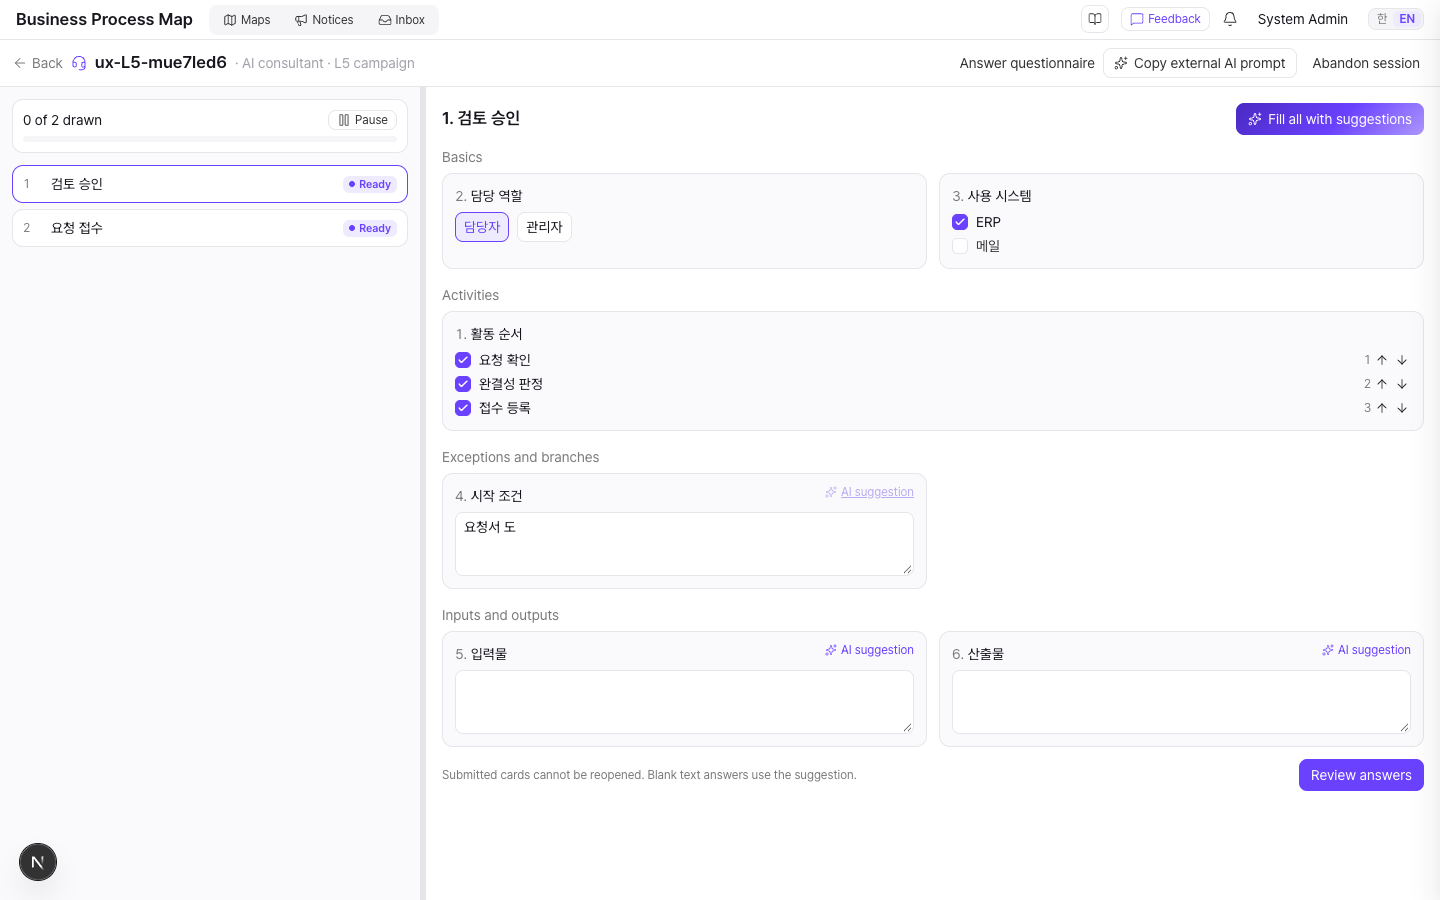
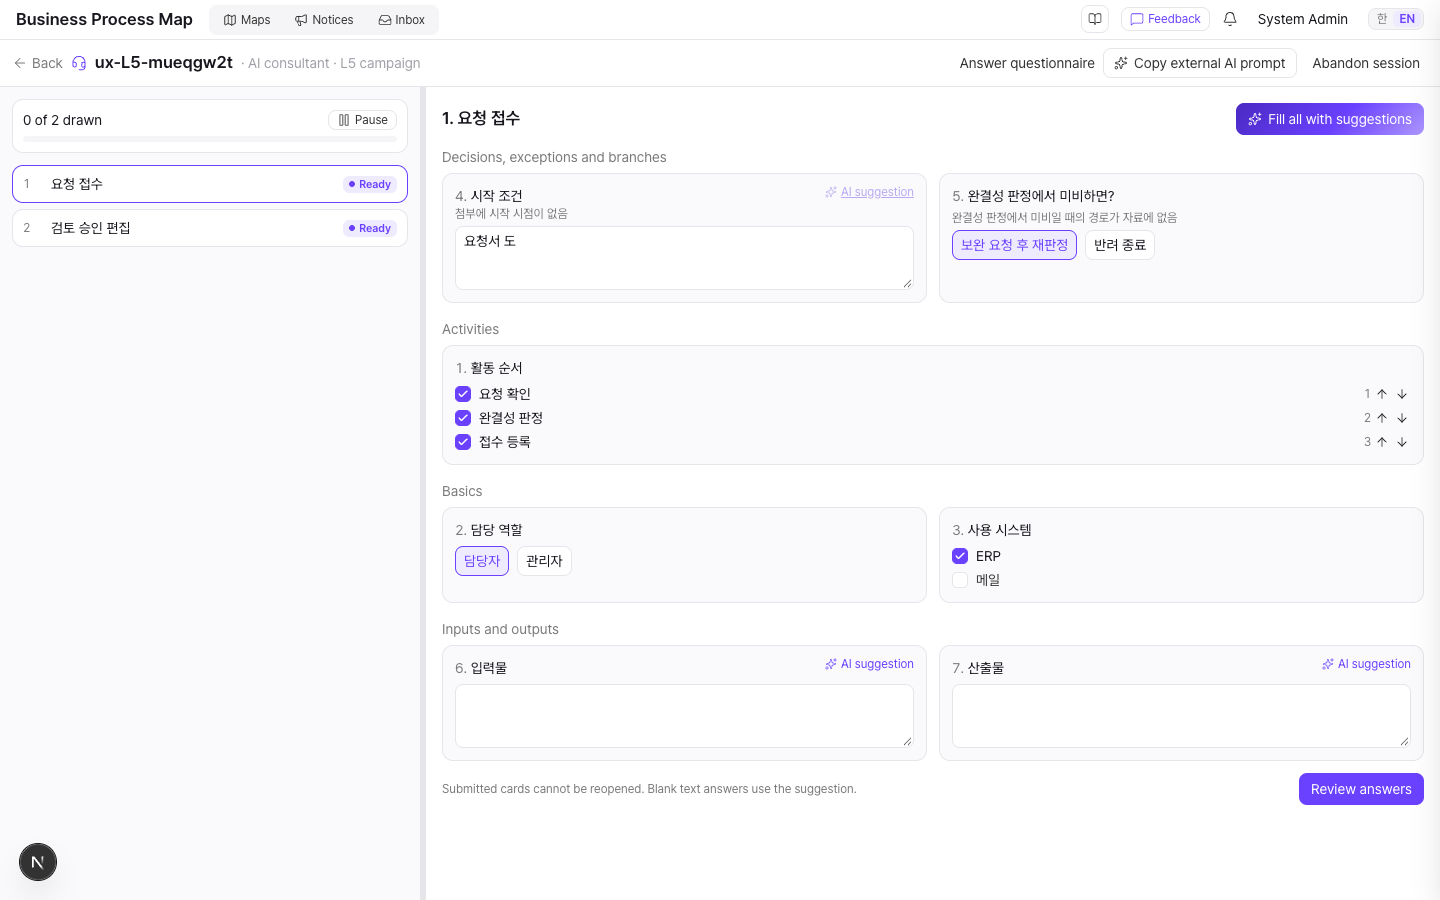
feat(fw-consult): questionnaire targets procedural ambiguity with a per-question why — 설문 초점을 절차 확정으로, 문항 근거 표시
Claude-Session: https://claude.ai/code/session_01Cp6z7UQxkS4JyPnK2oo8Q2

diff --git a/frontend/src/components/framework-interview/questionnaire-form.tsx b/frontend/src/components/framework-interview/questionnaire-form.tsx
@@ -46,12 +46,16 @@ export function QuestionnaireForm({ questionnaire, answers, missing, onChange }:
                     <TextAnswer
                       qid={q.id}
                       title={<><span className="text-ink-tertiary tabular-nums">{numbers.get(q.id)}. </span>{q.text}</>}
+                      why={q.why}
                       value={textValue}
                       suggested={typeof q.suggested === "string" ? q.suggested : ""}
                       onChange={(v) => onChange(q.id, v)}
                     />
                   ) : (
-                    <p className="text-caption text-ink"><span className="text-ink-tertiary tabular-nums">{numbers.get(q.id)}. </span>{q.text}</p>
+                    <>
+                      <p className="text-caption text-ink"><span className="text-ink-tertiary tabular-nums">{numbers.get(q.id)}. </span>{q.text}</p>
+                      {q.why && <QuestionWhy qid={q.id} why={q.why} />}
+                    </>
                   )}
                   {q.kind === "single" && (
                     <div className="flex flex-wrap gap-2">
@@ -107,10 +111,15 @@ export function QuestionnaireForm({ questionnaire, answers, missing, onChange }:
   );
 }
 
+// 질문 근거 한 줄 — AI가 왜 이걸 묻는지(자료에서 빠진 것). 현업이 "왜 이걸 묻지"를 바로 알게 문항 바로 아래 작게.
+function QuestionWhy({ qid, why }: { qid: string; why: string }) {
+  return <p className="text-fine text-ink-tertiary" data-id={`fw-consult-question-why-${qid}`}>{why}</p>;
+}
+
 // 주관식 한 칸 — 제목 줄 우측에 글자형 [AI 제안](편집 중)/연필(확정 후, hover에 노출), 그 아래 전폭 textarea.
 // 빈 textarea에서 시작, [AI 제안]이 제안값을 타이핑으로 채우고, blur로 확정(텍스트 뷰), 연필로 재편집.
 // 빈칸 제출은 여전히 허용(서버가 제안값 적용) — 여기서는 보여주지 않을 뿐이다.
-function TextAnswer({ qid, title, value, suggested, onChange }: { qid: string; title: ReactNode; value: string; suggested: string; onChange: (v: string) => void }) {
+function TextAnswer({ qid, title, why, value, suggested, onChange }: { qid: string; title: ReactNode; why?: string; value: string; suggested: string; onChange: (v: string) => void }) {
   const { t } = useI18n();
   const { typeInto } = useTypewriter();
   const [editing, setEditing] = useState(() => value === "");
@@ -119,7 +128,10 @@ function TextAnswer({ qid, title, value, suggested, onChange }: { qid: string; t
   return (
     <div className="group flex flex-col gap-1.5">
       <div className="flex items-start gap-2">
-        <p className="min-w-0 flex-1 text-caption text-ink">{title}</p>
+        <div className="flex min-w-0 flex-1 flex-col gap-0.5">
+          <p className="text-caption text-ink">{title}</p>
+          {why && <QuestionWhy qid={qid} why={why} />}
+        </div>
         {committed ? (
           <button
             type="button"

diff --git a/frontend/src/lib/framework-interview.test.ts b/frontend/src/lib/framework-interview.test.ts
@@ -38,11 +38,11 @@ describe("framework-interview view model", () => {
     expect(buildSubmitPayload(Q, { q1: ["b"], q2: "r2" })).toEqual({ q1: ["b"], q2: "r2", q3: "" });
   });
 
-  it("groupQuestionsBySection orders basic→activities→exceptions→io and drops empty sections", () => {
+  it("groupQuestionsBySection orders exceptions→activities→basic→io and drops empty sections", () => {
     const q = (id: string, section: FwQuestionSection) => ({ id, kind: "text" as const, maps_to: "conditions" as const, text: id, options: [], suggested: "", section });
     const groups = groupQuestionsBySection([q("a", "io"), q("b", "basic"), q("c", "activities"), q("d", "basic")]);
-    expect(groups.map((g) => g.section)).toEqual(["basic", "activities", "io"]);
-    expect(groups[0].questions.map((x) => x.id)).toEqual(["b", "d"]);
+    expect(groups.map((g) => g.section)).toEqual(["activities", "basic", "io"]);
+    expect(groups[1].questions.map((x) => x.id)).toEqual(["b", "d"]);
   });
 
   it("groupQuestionsBySection drops an unknown or missing section into basic", () => {

diff --git a/frontend/src/lib/i18n-messages.ts b/frontend/src/lib/i18n-messages.ts
@@ -2636,7 +2636,7 @@ const en = {
   "fwConsult.feedbackLocked": "This campaign is registered, so card changes are closed.",
   "fwConsult.sectionBasic": "Basics",
   "fwConsult.sectionActivities": "Activities",
-  "fwConsult.sectionExceptions": "Exceptions and branches",
+  "fwConsult.sectionExceptions": "Decisions, exceptions and branches",
   "fwConsult.sectionIo": "Inputs and outputs",
   "fwConsult.panelPreparing": "Preparing the questionnaire",
   "fwConsult.panelDrawing": "Drawing the map from your answers",
@@ -5456,7 +5456,7 @@ const ko: Record<MessageKey, string> = {
   "fwConsult.feedbackLocked": "등록이 끝난 캠페인이라 카드 수정은 닫혔습니다.",
   "fwConsult.sectionBasic": "기본 정보",
   "fwConsult.sectionActivities": "활동",
-  "fwConsult.sectionExceptions": "예외·분기",
+  "fwConsult.sectionExceptions": "판단·예외·분기",
   "fwConsult.sectionIo": "입출력",
   "fwConsult.panelPreparing": "설문을 만드는 중",
   "fwConsult.panelDrawing": "답을 바탕으로 맵을 그리는 중",

diff --git a/frontend/src/lib/framework-interview.ts b/frontend/src/lib/framework-interview.ts
@@ -8,7 +8,8 @@ import type { MessageKey } from "./i18n-messages";
 export type FwStep = "plan" | "answer" | "waiting" | "relations" | "register" | "done";
 
 // 설문 섹션 표시 순서 — 서버 문항 생성(framework_interview/contracts.py)과 같은 읽는 순서
-const SECTION_ORDER: FwQuestionSection[] = ["basic", "activities", "exceptions", "io"];
+// 판단·예외·분기가 설문의 주 목적이라 맨 위(사용자 결정 2026-09-24), 자료에서 못 읽은 기본 정보·입출력은 뒤로
+const SECTION_ORDER: FwQuestionSection[] = ["exceptions", "activities", "basic", "io"];
 
 /** 섹션 헤더 문구 — 설문 폼과 확인 화면이 같은 라벨을 쓴다. */
 export const SECTION_LABEL_KEYS: Record<FwQuestionSection, MessageKey> = {

diff --git a/frontend/src/lib/api.ts b/frontend/src/lib/api.ts
@@ -2881,6 +2881,7 @@ export interface FwQuestion {
   kind: FwQuestionKind;
   maps_to: FwMapsTo;
   section: FwQuestionSection;
+  why?: string;  // 왜 이 질문이 필요한지(자료에서 빠진 것) 한 줄. 서버 normalize가 빈 문자열로 채운다
   text: string;
   options: FwQuestionOption[];
   suggested: string[] | string;

diff --git a/backend/tests/test_framework_interview_normalize.py b/backend/tests/test_framework_interview_normalize.py
@@ -204,3 +204,13 @@ def test_finalize_row_output_drops_owner_and_fills_department_from_the_card() ->
     row = finalize_row_output(out, {"department": "품질팀"})
     assert "owner" not in row and row["department"] == "품질팀"
     assert finalize_row_output(out, {})["department"] == ""
+
+
+def test_normalize_questionnaire_keeps_why_and_accepts_synonyms() -> None:
+    out = normalize_questionnaire({"questions": [
+        {"id": "q1", "kind": "ordered", "maps_to": "activities", "text": "순서", "options": [{"id": "a", "label": "A"}, {"id": "b", "label": "B"}], "suggested": ["a", "b"], "why": "첨부 SOP에 순서가 없음"},
+        {"id": "q2", "kind": "single", "maps_to": "branches", "text": "반려 시", "options": [{"id": "r", "label": "재접수"}, {"id": "s", "label": "종료"}], "suggested": ["r"], "reason": "반려 경로 미기재"},
+        {"id": "q3", "kind": "text", "maps_to": "io", "text": "입력", "options": [], "suggested": "x"},
+    ]})
+    whys = {q["id"]: q["why"] for q in out["questions"]}
+    assert whys == {"q1": "첨부 SOP에 순서가 없음", "q2": "반려 경로 미기재", "q3": ""}

diff --git a/backend/app/framework_interview/normalize.py b/backend/app/framework_interview/normalize.py
@@ -163,7 +163,8 @@ def normalize_questionnaire(raw: Any) -> dict:
         qid = _unique_id(_text(item.get("id")) or f"q{idx}", seen_q)
         section = _lower(item.get("section"))
         section = section if section in SECTIONS else SECTION_BY_MAPS_TO.get(maps_to, "basic")
-        out.append({"id": qid, "kind": kind, "maps_to": maps_to, "section": section, "text": text[:600], "options": options, "suggested": suggested})
+        why = _text(item.get("why") or item.get("reason") or item.get("rationale"))[:300]
+        out.append({"id": qid, "kind": kind, "maps_to": maps_to, "section": section, "why": why, "text": text[:600], "options": options, "suggested": suggested})
     # activities 순서 문항이 없으면 activities로 표시된 객관식을 ordered로 승격(없으면 검증이 잡는다)
     if not any(q["kind"] == "ordered" and q["maps_to"] == "activities" for q in out):
         for q in out:

diff --git a/backend/tests/test_framework_interview_contracts.py b/backend/tests/test_framework_interview_contracts.py
@@ -153,3 +153,12 @@ def test_registry_exposes_the_feedback_contracts() -> None:
     for key in ("l5_canvas_feedback_contract", "l6_row_feedback_contract"):
         assert key in PROMPT_KEYS
         assert defaults[key]
+
+
+def test_questionnaire_contract_targets_ambiguity_and_asks_for_why() -> None:
+    # 설문의 초점은 값 채우기가 아니라 절차의 애매한 지점 확정(사용자 결정 2026-09-24) — 문항마다 why 근거
+    text = c.L6_QUESTIONNAIRE_CONTRACT
+    assert "애매한 지점" in text and "why" in text
+    assert "exceptions 3~5" in text
+    assert "—" not in text  # AI 프롬프트에 긴 대시 금지
+    assert c.Question(id="q1", kind="text", maps_to="conditions", text="t", suggested="s").why == ""

diff --git a/docs/manual/admin-manual-en.md b/docs/manual/admin-manual-en.md
@@ -357,9 +357,9 @@ Fill an L5 through a conversation with AI instead of a document (sysadmin only).
 - **Create an L5 and start** · select a level-4 row, type the new L5 name in the name field, and press **Create L5 and start**; the category is created under that L4 and the session opens right away.
 - Buttons are disabled when the selected level does not fit, and hovering one tells you which level to pick. **Sessions in progress n** at the bottom of the block drops the session list open under the button, with **Resume** on each row.
 
-- **Four steps.** (1) **Plan**: given an optional brief and attachments, AI proposes a list of L6 task cards to register under that L5. Edit, add, or remove cards, then press **Lock**; the list is fixed and questionnaire prep starts in the background for each card. (2) **Questionnaire**: answer an AI-generated, mostly multiple-choice questionnaire for each L6 card. Every question must be answered before you can submit (a blank free-text answer is filled with the suggested value automatically), and submitting immediately draws that card's flow in the background while the next questionnaire is prepared. A submitted card cannot be reopened. (3) **Connections**: entering the step, AI proposes the flow between L6s right away (an overlay ring holds for at least 1.5 seconds while it works). The left side is an editable **L5 linkage canvas**, the right side is the L6 card list and the feedback chat. On the canvas you can drag nodes to reposition them, right-click a node for a menu to insert or remove a branch (decision) after it, and click a connector to type its label (a condition); every edit auto-saves with a 300ms debounce. Instead of editing by hand, send a plain-language request in the chat (for example, "swap the order of the first two steps") and AI redraws the canvas to match. The right panel's **Preview** and **Edit answers and redraw** per L6 card (reopens the questionnaire with the previous answers; resubmitting redraws only that card) still work the same way, and pressing **Confirm connections** finishes the step. (4) **Register**: the assembled document goes through the same screen as interview import. Entering this step **runs the Dry run automatically** so the report appears right away, and **Back to connections** returns you to the previous step at any time before Apply.
+- **Four steps.** (1) **Plan**: given an optional brief and attachments, AI proposes a list of L6 task cards to register under that L5. The screen has three columns: the brief and attachments on the left, a read-only card list in the middle (drag the handle to reorder, click to select), and the selected card's details on the right (name, summary, role, department, remove). Edit, add, or remove cards, then press **Lock**; the list is fixed and questionnaire prep starts in the background for each card. (2) **Questionnaire**: answer an AI-generated, mostly multiple-choice questionnaire for each L6 card. The questions focus on settling what is ambiguous in the procedure (who decides, branch conditions, where a rejection goes back to, parallel or sequential, exception paths, where the L6 starts and ends) rather than filling fields; anything already readable from the brief, attachments, or existing maps is not asked but pre-filled as the suggestion, and each question carries a one-line reason underneath. Sections run decisions and exceptions, activities, basics, inputs and outputs. Every question must be answered before you can submit (a blank free-text answer is filled with the suggested value automatically), and submitting immediately draws that card's flow in the background while the next questionnaire is prepared. A submitted card cannot be reopened. (3) **Connections**: entering the step, AI proposes the flow between L6s right away (an overlay ring holds for at least 1.5 seconds while it works). The left side is an editable **L5 linkage canvas**, the right side is the feedback chat (the board on the left already lists the L6 cards). On the canvas you can drag nodes to reposition them, right-click a node for a menu to insert or remove a branch (decision) after it, and click a connector to type its label (a condition); every edit auto-saves with a 300ms debounce. Instead of editing by hand, send a plain-language request in the chat (for example, "swap the order of the first two steps") and AI redraws the canvas to match. The board rows' **Preview** and **Revise** (asks the questions again and redraws only that card) still work the same way, and pressing **Confirm connections** finishes the step. (4) **Register**: the assembled document goes through the same screen as interview import. Entering this step **runs the Dry run automatically** so the report appears right away, and **Back to connections** returns you to the previous step at any time before Apply.
 - **Any board row is clickable, whatever its status.** Clicking a row on the left board opens that card's panel on the right: a pending row shows a preparing indicator, a row being answered opens the questionnaire, a just-submitted row shows the answers with a drawing indicator, and a finished (drawn) card shows the flow **preview** together with the **feedback chat** so you can ask for changes to that card alone in plain language (this keeps working after you reach the register step, too). Closing the panel returns to the automatic flow (the card currently in progress).
-- **Existing L6 maps are loaded first.** Starting a session reads the L6 maps already registered under that L5 and feeds them into the plan, the questionnaires, and the drawing. The plan screen shows a "n existing L6 maps were loaded" note, and each loaded map arrives as a card with an **Existing** chip at the top of the list. An existing card defaults to **Keep**, meaning this round leaves it alone; switch the **Keep / Revise** toggle on the card header to Revise and only that card goes through a questionnaire again. A revise questionnaire and its drawing start **from what is registered today**, asking what to change and leaving anything you do not answer at its current value. Existing cards cannot be deleted (removing one brings it back on save). On Lock, kept cards land on the board as **Drawn** without a questionnaire and only revise cards queue up. The board and the connections screen carry the same **Existing / Revise** chips, and a kept card's **Revise** button switches it after the lock. In the register Dry run a kept L6 reads **Unchanged** and a revised one reads **Updated**.
+- **Existing L6 maps are loaded first.** Starting a session reads the L6 maps already registered under that L5 and feeds them into the plan, the questionnaires, and the drawing. The plan screen shows a "n existing L6 maps were loaded" note, and each loaded map arrives as a card with an **Existing** chip at the top of the list. An existing card defaults to **Keep**, meaning this round leaves it alone; select the card and switch the **Keep / Revise** toggle in the details column to Revise and only that card goes through a questionnaire again. A revise questionnaire and its drawing start **from what is registered today**, asking what to change and leaving anything you do not answer at its current value. Existing cards cannot be deleted (removing one brings it back on save). On Lock, kept cards land on the board as **Drawn** without a questionnaire and only revise cards queue up. The board and the connections screen carry the same **Existing / Revise** chips, and a kept card's **Revise** button switches it after the lock. In the register Dry run a kept L6 reads **Unchanged** and a revised one reads **Updated**.
 - **Brief and attachments are kept apart.** "Purpose and scope" on the left of the plan screen is text you write; attached documents are listed below it, one entry per file. Attaching alone generates nothing. Once the brief and attachments are in place, press **Propose L6 cards** and the AI reads both. A wrong file is removed with the delete button on its row, then propose again (nothing accumulates).
 - **Free-text answers start blank.** A free-text question on the questionnaire screen opens with an empty box; press **[AI suggestion]** and the suggested value types itself in (leaving the box commits that value). Hover a committed answer to reopen it with the pencil icon. Submitting the box blank still works, since the server applies the suggested value.
 - **Cards that fail on the AI side.** When the AI reply does not match the expected format, the request is repeated up to three times with the validation errors fed back; if it still fails, the card stops as "Failed". Use **Retry** on the board, or **Skip with placeholder** to register that L6 as a one-activity placeholder and keep the session moving (draw it in the editor after registration; the card keeps a "Placeholder" tag).

diff --git a/PROGRESS.md b/PROGRESS.md
@@ -5,6 +5,7 @@
 
 ## 2026-09-23 — AI L5 캠페인 2라운드 스프린트 ④ 캠페인 엔진
 
+- **설문의 초점 = 절차의 애매한 지점(dev, 09-24):** `L6_QUESTIONNAIRE_CONTRACT`를 필드 채우기(basic 2~3·io 1~2)에서 판단 주체·분기 조건·반려 복귀·병렬/순차·예외 경로·경계·인계 시점을 묻는 구성(exceptions 3~5·activities 1·basic/io 0~2)으로 뒤집고, 브리프·첨부·기존 맵에서 읽히는 값은 묻지 않고 suggested로만. 문항마다 `why`(근거 한 줄, `Question.why`·normalize 동의어 reason/rationale)를 받아 폼이 문항 아래 작게 보여준다. 섹션 순서 exceptions→activities→basic→io, 라벨 "판단·예외·분기". 첨부는 이미 `build_context_text`로 설문 프롬프트에 들어가고 있었다.
 - **계획 화면 3열(dev, 09-24):** 우측 L6 카드가 인풋 3줄 전폭 카드로 너무 넓게 쓰던 것을 `brief | 읽기전용 카드 목록 | 선택 카드 상세(380)`로 재구성(사용자 제안). 목록 행은 클릭 선택·핸들 드래그(포인터, offsetTop 기준으로 FLIP transform 중간값에 안 흔들림)·Alt+↑/↓ 순서, 상세 열이 유일한 편집면(이름·요약·역할·부서·유지/정정·삭제), 새 카드는 자동 선택. 인라인 hover 편집 카드와 ↑↓ 버튼은 폐기. `moveCard` 헬퍼+테스트, 스모크 2종 이식(드래그 재현 포함).
 - **데모 리뷰 피드백 5종(dev, 09-23):** L5 하늘 캔버스 드롭존 라벨을 잉크 반투명 알약 위 밝은 글자로(보라 글자가 하늘에, 흰 글자가 노드에 묻히던 문제, 노드 유무 모두 읽힘) · AI 버튼 크기를 primary 한 벌로 통일(`inline`=primary, 전폭 "다시 제안"은 우측 정렬)하고 그라데이션을 elevated→accent→sky 3단으로 · 주관식 [AI 제안]은 제목 줄 우측 글자형 버튼(`AiButton variant="text"`), 편집 박스는 전폭 · 연결 캔버스 핸들/호버 강조를 에디터와 같은 raw style 토큰으로(RF 기본 파란 원형 핸들 제거) · 연결 단계 우측 "L6 카드" 목록 삭제(좌측 보드와 중복, 미리보기·수정은 보드 행 버튼) — UX 스모크는 보드의 눈 버튼으로 미리보기.
 - **최종 리뷰 픽스 2차(dev, 09-23):** 보드 카드를 고르면 연결·등록 단계를 **언마운트하지 않고 숨긴다**(`selectedTask ? "hidden" : …` 호스트 div) — 언마운트는 편집 중 캔버스의 300ms 디바운스 저장을 취소한 뒤 낡은 `session.canvas`로 리마운트해 드래그·분기·라벨을 되감고, 등록 단계에선 드라이런이 다시 돌아 거버넌스 선택을 조용히 버렸다. 숨은 ReactFlow는 뷰포트를 그대로 유지한다(스모크에서 transform 동일 확인). 곁들여: 캔버스 노드 라벨에 `taskNames` 적용(L6 카드 이름이 캔버스 title보다 우선, 컨텍스트 메뉴만 쓰던 prop) · FE 분기 노드 제목을 서버와 같은 `{앞 단계} 결과`로(기존 "분기") · 등록 끝난 세션은 카드 피드백 작성창을 걷고 이유를 적는다(서버가 409로 막는 자리, `FeedbackChat locked`) · 매뉴얼 en `[AI suggest]`→`[AI suggestion]`.
